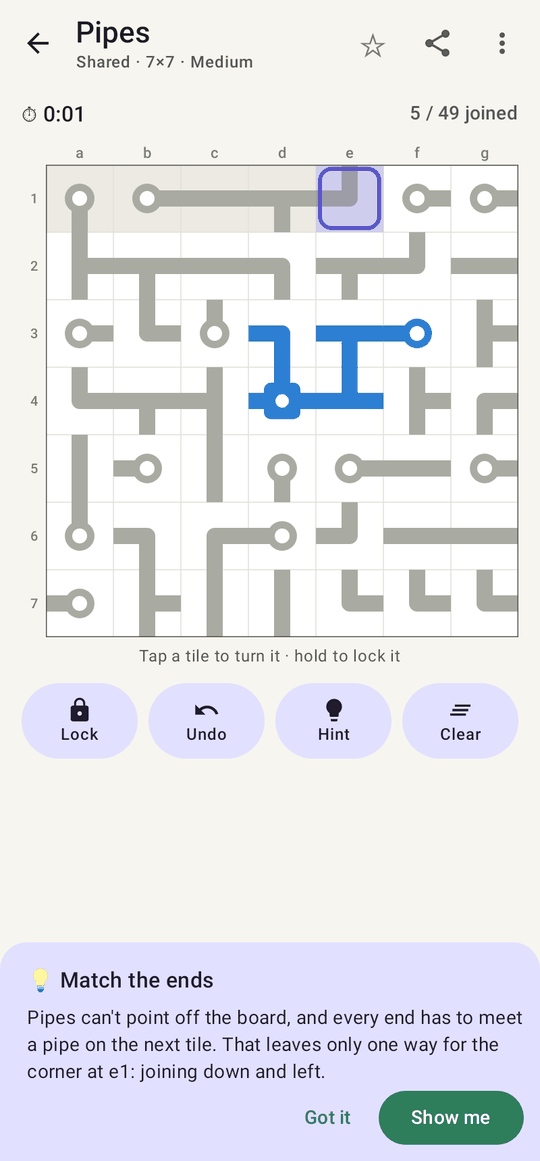
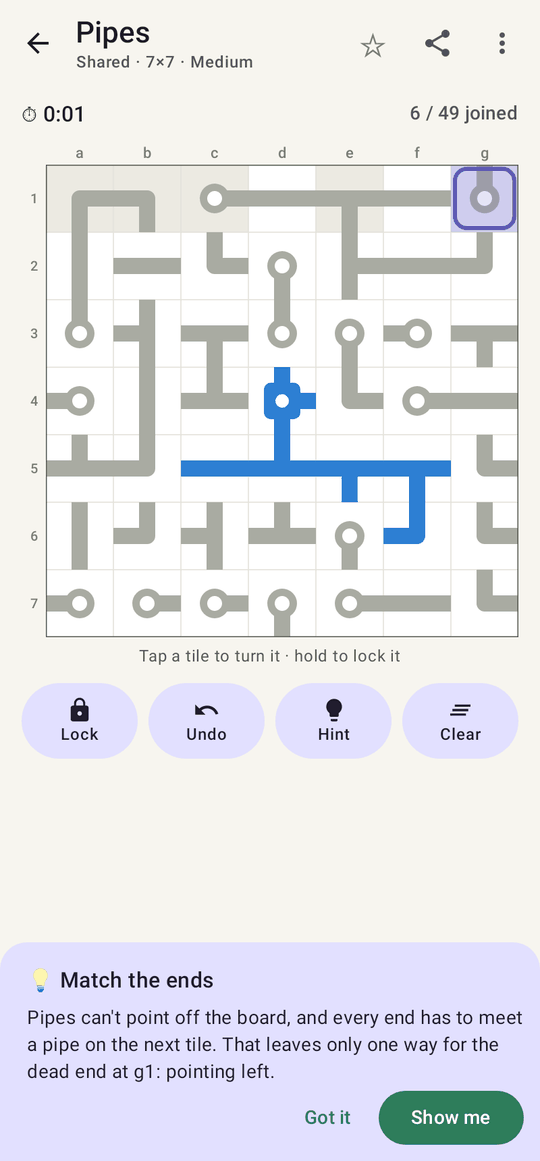
Guide for 1.14.0: appearance from anywhere, wide screens, retuned Pipes and Rectangles
Claude-Session: https://claude.ai/code/session_016Z8Mn8awnLpuJzFTS8oQNa

diff --git a/docs/using-the-app.md b/docs/using-the-app.md
@@ -108,12 +108,14 @@ The profile button at the top right of the home screen shows your overall stats,
   - **Retro pixel**: chunky pixels and an 8-bit palette
   - **Paper cut**: layers of cut paper with soft shadows
   - **Watercolour**: soft washes of paint on textured paper
-- **Light or dark:** System, Light or Dark (Neon and Chalkboard are always dark, Watercolour always light)
+- **Light or dark:** System, Light or Dark (Neon and Chalkboard are always dark, Watercolour always light). You can also change the theme and light or dark without leaving a puzzle: tap the palette button on the home screen or a puzzle's menu, or ⋮ → **Appearance** while playing.
 - **Puzzles:** **Unlock every size and difficulty** skips the unlock path
 - **Home screen:** list or tiles
 
 <img src="images/themes.png" width="640" alt="Star Battle in all ten themes">
 - **What's new**, **Check for updates** and **Open-source licenses**
+
+On a tablet or an open foldable turned sideways, the board sits on the left with the buttons (and any hint) beside it, and each puzzle's menu shows its rules next to the play options.
 
 Google Play Games sign-in (achievements, leaderboards and saving across devices) is planned.
 
